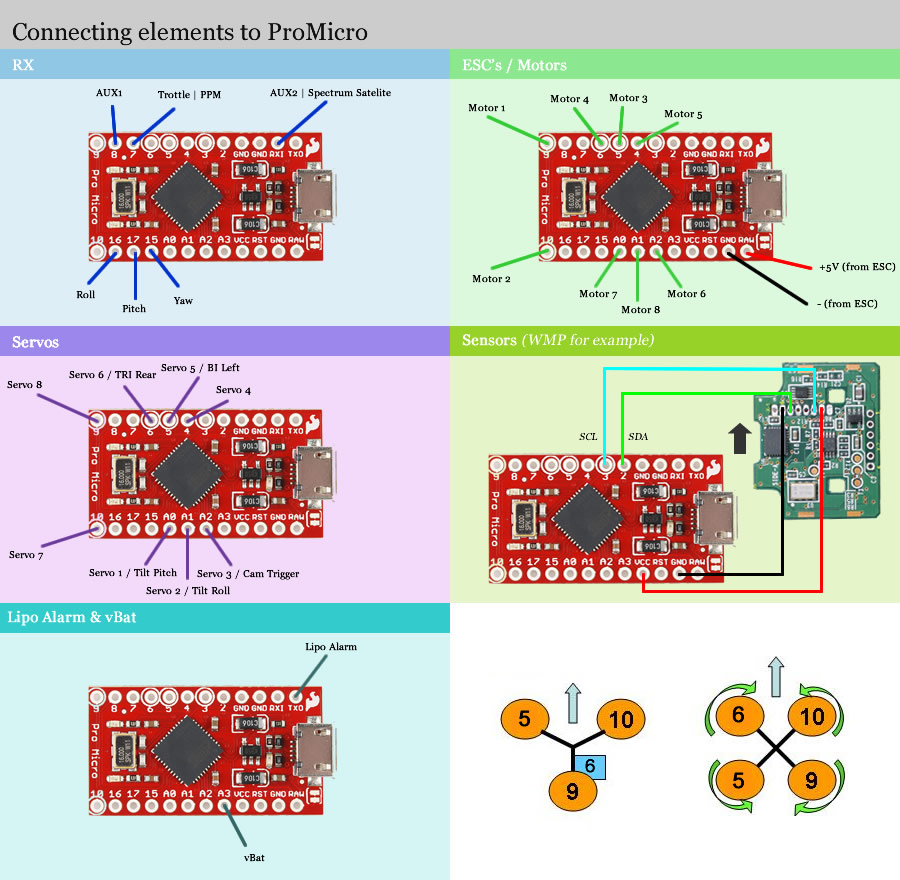
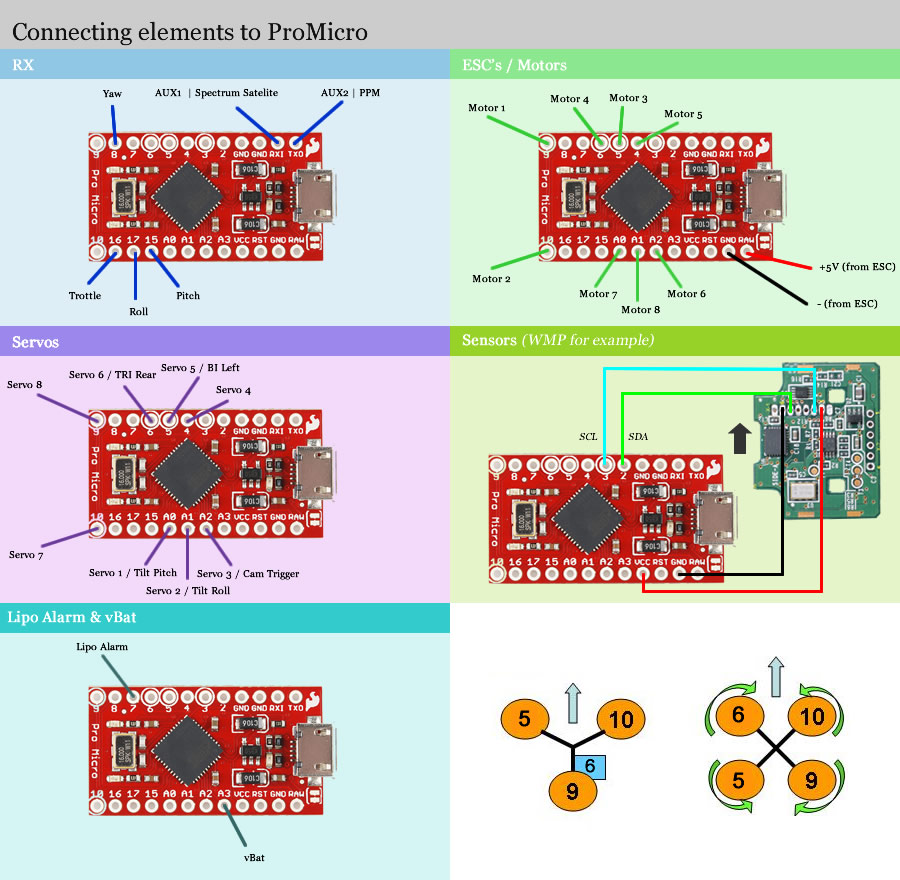
changed RX oin setup back to old version because INT6 (D7) does bad errors when armed

diff --git a/def.h b/def.h
@@ -121,9 +121,9 @@
   #define LEDPIN_TOGGLE              PIND |= 1<<5;     //switch LEDPIN state (Port D5)
   #define LEDPIN_OFF                 PORTD &= ~(1<<5);
   #define LEDPIN_ON                  PORTD |= (1<<5);
-  #define BUZZERPIN_PINMODE          pinMode (1, OUTPUT);
-  #define BUZZERPIN_ON               PORTD |= 1<<3;
-  #define BUZZERPIN_OFF              PORTD &= ~(1<<3);
+  #define BUZZERPIN_PINMODE          pinMode (7, OUTPUT);
+  #define BUZZERPIN_ON               PORTE |= 1<<6;
+  #define BUZZERPIN_OFF              PORTE &= ~(1<<6);
   #define POWERPIN_PINMODE           //
   #define POWERPIN_ON                //
   #define POWERPIN_OFF               //

diff --git a/config.h b/config.h
@@ -58,9 +58,6 @@
 //#define RCAUXPIN8
 //#define RCAUXPIN12
 
-//aux2 pin for promicro (on pin RX0)
-//#define RCAUX2PIN
-
 /* This option is here if you want to use the old level code from the verison 1.7
    It's just to have some feedback. This will be removed in the future */
 //#define STAB_OLD_17
